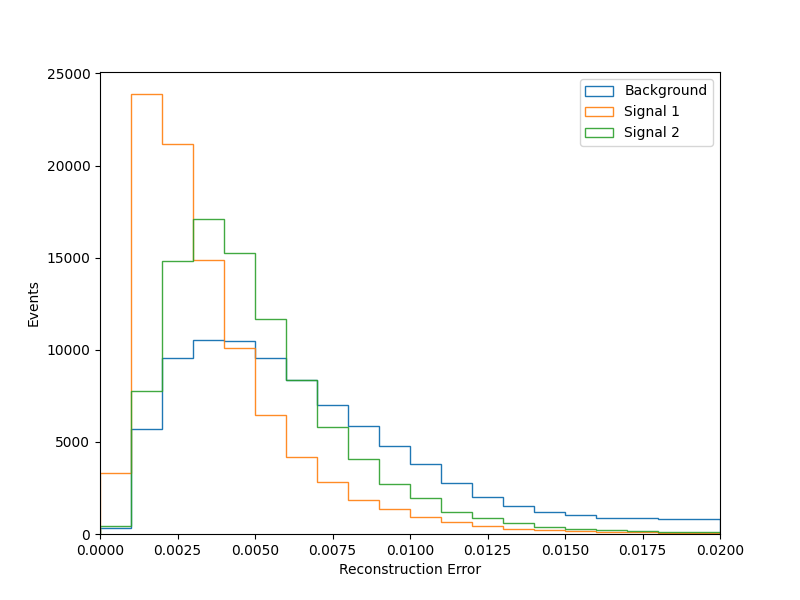
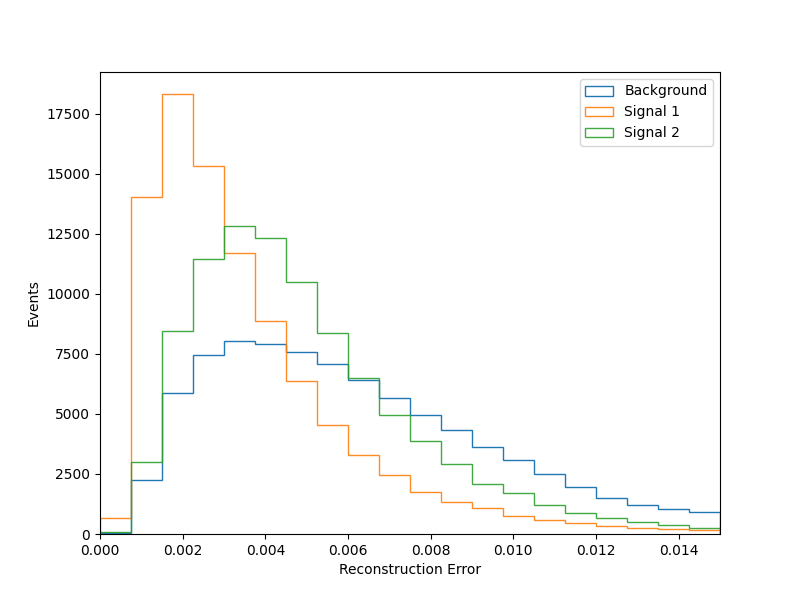
Testing with minmax scaling and 21, 14 layer dimensions

diff --git a/test.py b/test.py
@@ -131,12 +131,12 @@ loss_sig2_total = loss_sig2.sum(axis=1) / 42
 # Plot Total Reconstruction Error
 nbins = 20
 fig, axes = plt.subplots(figsize=(8,6))
-axes.hist([loss_bkg_total], nbins, range=(0, 0.02), density=0, histtype='step', label=['Background'], stacked=True, alpha=1)
-axes.hist([loss_sig1_total], nbins, range=(0, 0.02), density=0, histtype='step', label=['Signal 1'], stacked=True, alpha=0.9)
-axes.hist([loss_sig2_total], nbins, range=(0, 0.02), density=0, histtype='step', label=['Signal 2'], stacked=True, alpha=0.9)
+axes.hist([loss_bkg_total], nbins, range=(0, 0.015), density=0, histtype='step', label=['Background'], stacked=True, alpha=1)
+axes.hist([loss_sig1_total], nbins, range=(0, 0.015), density=0, histtype='step', label=['Signal 1'], stacked=True, alpha=0.9)
+axes.hist([loss_sig2_total], nbins, range=(0, 0.015), density=0, histtype='step', label=['Signal 2'], stacked=True, alpha=0.9)
 axes.set_xlabel(r"Reconstruction Error")
 axes.set_ylabel("Events")
-axes.set_xlim(0, 0.02)
+axes.set_xlim(0, 0.015)
 axes.legend(loc='upper right')
 fig.savefig(f"figs/testing/reconstruction_error_{scale}_{mid_dim}_{latent_dim}.png")
 
